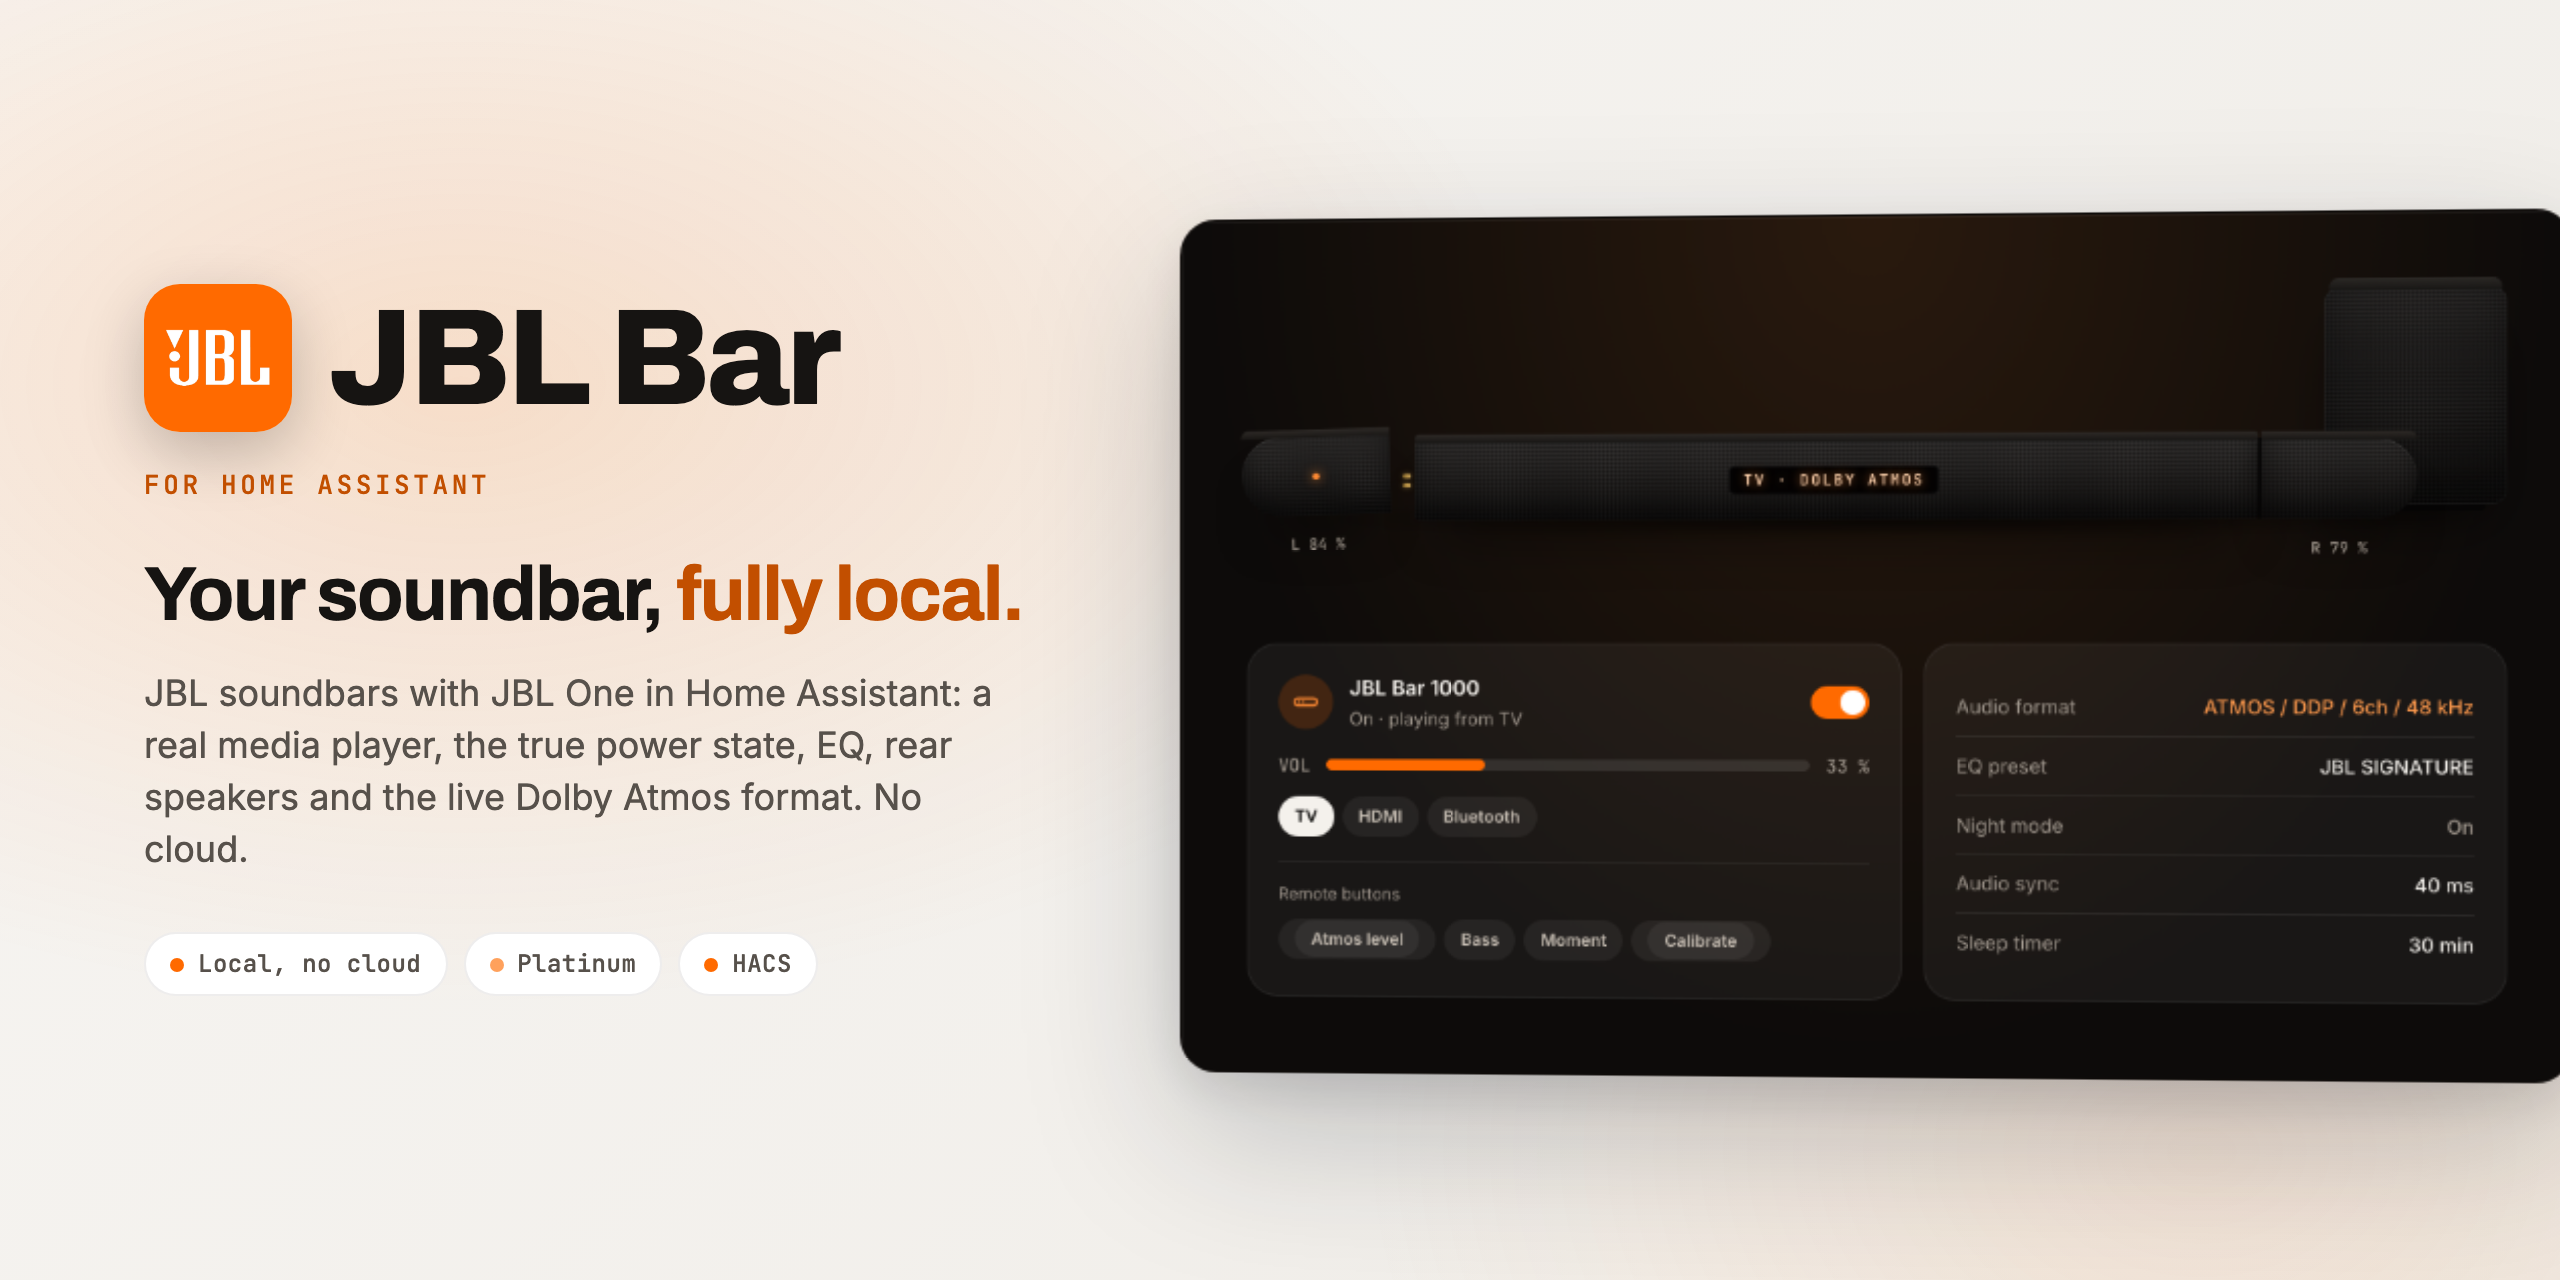
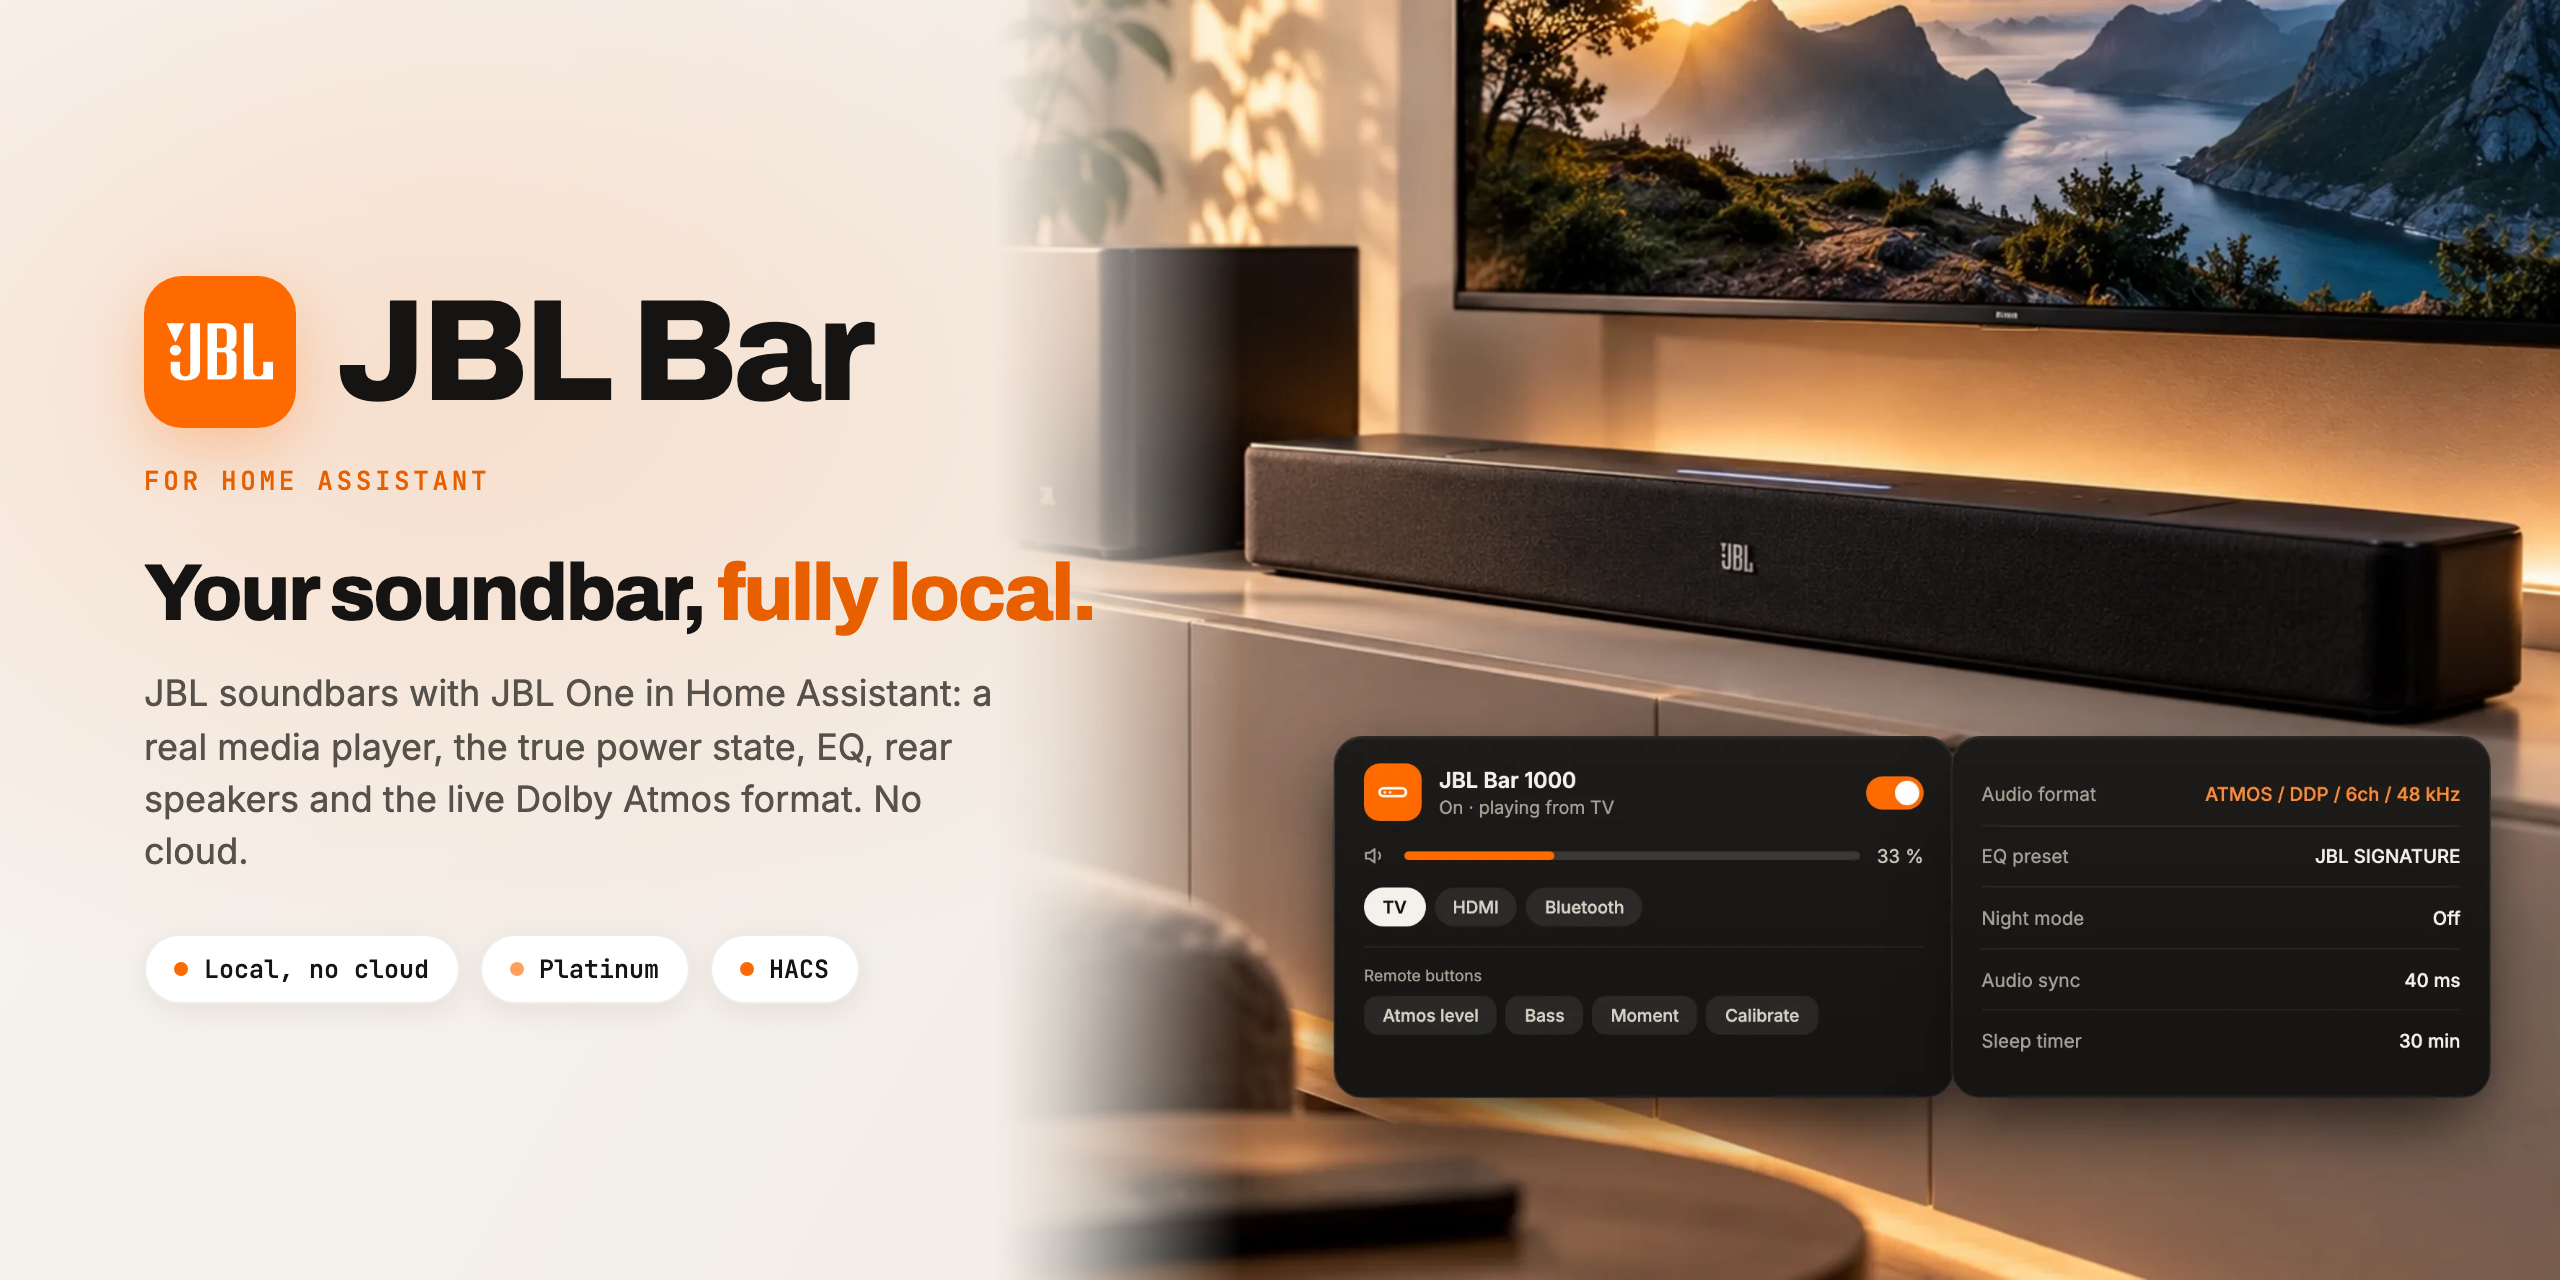
docs: photo scene in the README title and on the project page
- docs/images/hero-photo.webp: the AI-generated scene (bar, subwoofer, TV),
  metadata stripped, soft left edge, with English cards showing only real
  features drawn over the panels of the original picture
- README title light and dark rebuilt from tools/readme-title.html
  (borderless photo, same style as the shared title template)
- Project page: hero-scene.webp (scene without panels) above the HTML cards,
  updated alt texts, og:image is the title picture
- The drawn stage and readme-stage images are gone

Claude-Session: https://claude.ai/code/session_01ULsc5ZrKnvkcrEhHsqXvCz

diff --git a/docs/index.html b/docs/index.html
@@ -11,7 +11,7 @@
 <meta name="theme-color" content="#0B0A09" media="(prefers-color-scheme: dark)">
 <meta property="og:title" content="JBL Bar for Home Assistant">
 <meta property="og:description" content="Local control for JBL soundbars with JBL One. Fast, complete, no cloud.">
-<meta property="og:image" content="https://sh1ft-w.github.io/jbl-bar/logo.png">
+<meta property="og:image" content="https://sh1ft-w.github.io/jbl-bar/images/readme-title-light.png">
 <link rel="icon" href="logo.png">
 <link rel="preconnect" href="https://fonts.googleapis.com">
 <link rel="preconnect" href="https://fonts.gstatic.com" crossorigin>
@@ -103,33 +103,10 @@ section.tint { background: var(--bg-2); }
 .pill { display: inline-flex; align-items: center; gap: 6px; padding: 5px 12px; border-radius: 999px; background: var(--card); box-shadow: var(--shadow); font-weight: 600; color: var(--ink-2); font-size: 13px; }
 .pill i { width: 7px; height: 7px; border-radius: 50%; background: var(--orange); display: inline-block; }
 
-/* Bühne: stilisierte Soundbar mit Karte (bleibt in beiden Themes dunkel) */
-/* Zeichnung im Stil einer Bar 1000: flache Stoff-Soundbar, abnehmbare Rears an den Enden, Subwoofer dahinter. Nur Formen, kein Logo. */
-.rig { position: relative; padding: calc(clamp(64px, 12vw, 128px) / 0.82 - clamp(38px, 5.4vw, 58px) + 8px) 0 34px; }
-.rig::after { content: ""; position: absolute; left: 4%; right: 2%; bottom: 22px; height: 26px; border-radius: 50%; background: radial-gradient(closest-side, rgba(0,0,0,0.7), transparent); filter: blur(4px); z-index: 0; }
-.fabric { background-color: #161413;
-  background-image: repeating-linear-gradient(0deg, rgba(255,255,255,0.045) 0 1px, transparent 1px 3px), repeating-linear-gradient(90deg, rgba(255,255,255,0.035) 0 1px, transparent 1px 3px),
-    linear-gradient(180deg, rgba(255,255,255,0.06), rgba(0,0,0,0.35)); }
-.woofer { position: absolute; right: 0; bottom: 44px; filter: brightness(0.85); width: clamp(64px, 12vw, 128px); aspect-ratio: 0.82; border-radius: 10px; z-index: 1;
-  box-shadow: inset 0 0 0 1px rgba(255,255,255,0.05), inset 0 -18px 30px rgba(0,0,0,0.45), 0 20px 40px -18px rgba(0,0,0,0.9); }
-.woofer::before { content: ""; position: absolute; left: 3px; right: 3px; top: -7px; height: 9px; border-radius: 8px 8px 2px 2px; background: linear-gradient(180deg, #34302d, #1d1b19); }
-.woofer::after { content: ""; position: absolute; left: 12%; right: 12%; bottom: -5px; height: 5px; border-radius: 0 0 4px 4px; background: #070606; }
-.sb { position: relative; z-index: 2; display: flex; align-items: stretch; width: 93%; height: clamp(38px, 5.4vw, 58px); }
-.sb > * { position: relative; box-shadow: inset 0 1px 0 rgba(255,255,255,0.1), inset 0 -10px 18px rgba(0,0,0,0.45), 0 26px 40px -22px rgba(0,0,0,0.95); }
-.sb > *::before { content: ""; position: absolute; left: 0; right: 0; top: -5px; height: 6px; background: linear-gradient(180deg, #2f2b28, #1a1816); border-radius: inherit; border-bottom-left-radius: 0; border-bottom-right-radius: 0; }
-.sb .body { flex: 1; border-radius: 3px; min-width: 0; }
-.sb .end { width: 13%; flex: none; }
-.sb .end.l { border-radius: 999px 3px 3px 999px; margin-right: 14px; transform: translate(-4px, -4px) rotate(-1.5deg); }
-.sb .end.r { border-radius: 3px 999px 999px 3px; margin-left: 2px; }
-.sb .end.r::after { content: ""; position: absolute; left: -2px; top: 0; bottom: 0; width: 2px; background: #050404; }
-.sb .end b { position: absolute; top: calc(100% + 16px); left: 50%; transform: translateX(-50%); font: 500 11px/1 var(--mono); color: #a39a90; white-space: nowrap; }
-.sb .end i { position: absolute; top: 50%; left: 50%; width: 5px; height: 5px; margin: -2.5px 0 0 -2.5px; border-radius: 50%; background: #ff8a33; box-shadow: 0 0 8px rgba(255,138,51,0.9); }
-.sb .pins { position: absolute; left: -9px; top: 50%; transform: translateY(-50%); display: grid; gap: 4px; }
-.sb .pins span { width: 6px; height: 3px; border-radius: 2px; background: linear-gradient(90deg, #8a6a2c, #e0b660); box-shadow: 0 0 4px rgba(224,182,96,0.4); }
-.sb .display { position: absolute; left: 50%; top: 50%; transform: translate(-50%, -50%); padding: 3px 10px; border-radius: 4px; background: #040303; box-shadow: inset 0 0 0 1px rgba(255,255,255,0.06);
-  font: 500 clamp(8px, 1.1vw, 11px)/1.3 var(--mono); letter-spacing: 0.14em; color: #ffd2ad; text-shadow: 0 0 8px rgba(255,140,60,0.8); white-space: nowrap; }
-
-.stage { position: relative; margin: clamp(48px, 7vw, 84px) auto 0; max-width: 1000px; border-radius: var(--radius-lg); padding: clamp(28px, 5vw, 56px) clamp(16px, 4vw, 48px);
+/* Bühne: Szene (KI-Bild) mit Karten darunter (bleibt in beiden Themes dunkel) */
+.scene { display: block; width: calc(100% + 2 * clamp(16px, 4vw, 48px)); max-width: none; margin: 0 calc(-1 * clamp(16px, 4vw, 48px)); aspect-ratio: 1062 / 500; object-fit: cover; border-radius: var(--radius-lg) var(--radius-lg) 0 0;
+  -webkit-mask-image: linear-gradient(180deg, #000 72%, transparent); mask-image: linear-gradient(180deg, #000 72%, transparent); }
+.stage { position: relative; margin: clamp(48px, 7vw, 84px) auto 0; max-width: 1000px; border-radius: var(--radius-lg); padding: 0 clamp(16px, 4vw, 48px) clamp(28px, 5vw, 56px);
   background: radial-gradient(ellipse at 50% 0%, #2a1a0e, #0d0b0a 70%); box-shadow: var(--shadow-lg), inset 0 0 0 1px rgba(255,255,255,0.06); color: #f4f1ec; }
 /* Das Logo ist dunkel auf transparent: im Dunkelmodus hell zeichnen */
 @media (prefers-color-scheme: dark) { :root:not([data-theme="light"]) .brand img { filter: invert(1); } }
@@ -326,16 +303,9 @@ footer .fine { flex-basis: 100%; line-height: 1.6; }
       <span class="en">Home Assistant 2026.9 or newer &middot; English and German &middot; Apache 2.0</span><span class="de">Home Assistant 2026.9 oder neuer &middot; Deutsch und Englisch &middot; Apache 2.0</span>
     </p>
 
-    <div class="stage reveal d3" role="img" aria-label="Illustration: a stylised soundbar with detachable rear speakers at both ends and a subwoofer behind it, below it a media player card and a list of entity values. The values are made up.">
-      <div class="rig" aria-hidden="true">
-        <div class="woofer fabric"></div>
-        <div class="sb">
-          <div class="end l fabric"><i></i><b>L 84 %</b></div>
-          <div class="body fabric"><span class="pins"><span></span><span></span></span><span class="display">TV &middot; DOLBY ATMOS</span></div>
-          <div class="end r fabric"><b>R 79 %</b></div>
-        </div>
-      </div>
-      <div class="cards">
+    <div class="stage reveal d3" role="img" aria-label="Illustration: a soundbar with its subwoofer below a TV in warm evening light, below it a media player card and a list of entity values. AI-generated scene, made-up values.">
+      <img class="scene" src="images/hero-scene.webp" width="2124" height="1000" fetchpriority="high" alt="">
+      <div class="cards" style="margin-top: clamp(-28px, -2vw, -12px); position: relative;">
         <div class="hc">
           <div class="top">
             <span class="ico"><svg viewBox="0 0 24 24" fill="none" stroke="currentColor" stroke-width="2" stroke-linecap="round" stroke-linejoin="round"><rect x="2" y="9" width="20" height="6" rx="3"/><path d="M6 12h.01M10 12h.01"/></svg></span>
@@ -350,13 +320,13 @@ footer .fine { flex-basis: 100%; line-height: 1.6; }
           <div class="rows">
             <div><span><span class="en">Audio format</span><span class="de">Audioformat</span></span><b class="hot">ATMOS / DDP / 6ch / 48 kHz</b></div>
             <div><span><span class="en">EQ preset</span><span class="de">EQ-Preset</span></span><b>JBL SIGNATURE</b></div>
-            <div><span><span class="en">Night mode</span><span class="de">Nachtmodus</span></span><b><span class="en">On</span><span class="de">An</span></b></div>
+            <div><span><span class="en">Night mode</span><span class="de">Nachtmodus</span></span><b><span class="en">Off</span><span class="de">Aus</span></b></div>
             <div><span><span class="en">Audio sync</span><span class="de">Audio-Sync</span></span><b>40 ms</b></div>
             <div><span><span class="en">Sleep timer</span><span class="de">Sleep-Timer</span></span><b>30 min</b></div>
           </div>
         </div>
       </div>
-      <p class="fict"><span class="en">Illustration with made-up values, not a screenshot.</span><span class="de">Illustration mit erfundenen Werten, kein Screenshot.</span></p>
+      <p class="fict"><span class="en">Illustration: AI-generated scene and made-up values, not a screenshot.</span><span class="de">Illustration: KI-generierte Szene und erfundene Werte, kein Screenshot.</span></p>
     </div>
   </div>
 </section>

diff --git a/tools/readme-title.html b/tools/readme-title.html
@@ -1,0 +1,51 @@
+<!doctype html>
+<!--
+  README title image with the photo (docs/images/hero-photo.webp), in the style of
+  sh1ft-w.github.io/theme/v1/readme-images/title.html. render.mjs frames every shot in a window,
+  this one is borderless with a soft left edge, so it has its own template.
+  Render (2560 x 1280), from the repository root:
+    chrome-headless-shell --headless --hide-scrollbars --window-size=1280,640 --force-device-scale-factor=2 \
+      --screenshot=docs/images/readme-title-light.png "file://$PWD/tools/readme-title.html"
+    ... --screenshot=docs/images/readme-title-dark.png "file://$PWD/tools/readme-title.html?dark"
+-->
+<html lang="en">
+<head>
+<meta charset="utf-8">
+<title>README title image</title>
+<link href="https://fonts.googleapis.com/css2?family=Archivo:wght@700;800&family=Inter:wght@400;500;600&family=JetBrains+Mono:wght@500&display=swap" rel="stylesheet">
+<style>
+  :root { --bg: #F7F5F2; --bg-2: #EFE7DD; --ink: #161412; --ink-2: #57514B; --accent-text: #E85F00; --accent: #FF6A00; --accent-2: #FFA15C;
+    --glow-1: rgba(255,106,0,0.14); --pill-bg: #ffffff; --pill-line: rgba(40,30,20,0.08); --pill-shadow: 0 4px 14px rgba(60,40,20,0.08); }
+  :root.dark { --bg: #0B0A09; --bg-2: #17120E; --ink: #F4F1EC; --ink-2: rgba(222,214,204,0.84); --accent-text: #FF8A33;
+    --glow-1: rgba(255,106,0,0.2); --pill-bg: rgba(255,255,255,0.06); --pill-line: rgba(255,255,255,0.10); --pill-shadow: none; }
+  * { box-sizing: border-box; margin: 0; }
+  body { width: 1280px; height: 640px; overflow: hidden; position: relative; font-family: "Inter", system-ui, sans-serif; color: var(--ink);
+    background: radial-gradient(800px 520px at 16% 30%, var(--glow-1), transparent 62%), linear-gradient(120deg, var(--bg) 0%, var(--bg-2) 100%); }
+  .photo { position: absolute; right: 0; top: 0; height: 640px; width: auto; }
+  .left { position: absolute; left: 72px; top: 0; bottom: 0; width: 520px; display: flex; flex-direction: column; justify-content: center; }
+  .brand { display: flex; align-items: center; gap: 20px; }
+  .brand img { width: 76px; height: 76px; border-radius: 19px; box-shadow: 0 10px 30px rgba(255,106,0,0.28); }
+  .brand h1 { font-family: "Archivo", system-ui, sans-serif; font-weight: 800; font-size: 72px; letter-spacing: -0.035em; line-height: 1; }
+  .eyebrow { margin-top: 18px; font-family: "JetBrains Mono", monospace; font-weight: 500; font-size: 13px; letter-spacing: 0.14em; text-transform: uppercase; color: var(--accent-text); }
+  .lead { margin-top: 26px; font-family: "Archivo", system-ui, sans-serif; font-weight: 800; font-size: 40px; letter-spacing: -0.03em; line-height: 1.08; }
+  .lead em { font-style: normal; color: var(--accent-text); }
+  .sub { margin-top: 16px; font-size: 18px; line-height: 1.45; color: var(--ink-2); max-width: 430px; }
+  .pills { margin-top: 28px; display: flex; flex-wrap: wrap; gap: 10px; }
+  .pill { font-family: "JetBrains Mono", monospace; font-size: 12.5px; font-weight: 500; padding: 8px 14px; border-radius: 999px; background: var(--pill-bg);
+    border: 1px solid var(--pill-line); box-shadow: var(--pill-shadow); color: var(--ink); display: inline-flex; align-items: center; gap: 8px; }
+  .pill i { width: 7px; height: 7px; border-radius: 50%; background: var(--accent); }
+  .pill.v i { background: var(--accent-2); }
+</style>
+<script>if (/[?&]dark\b/.test(location.search)) document.documentElement.classList.add('dark');</script>
+</head>
+<body>
+  <img class="photo" src="../docs/images/hero-photo.webp" alt="">
+  <div class="left">
+    <div class="brand"><img src="../docs/images/readme-icon.png" alt=""><h1>JBL Bar</h1></div>
+    <div class="eyebrow">For Home Assistant</div>
+    <div class="lead">Your soundbar, <em>fully local.</em></div>
+    <div class="sub">JBL soundbars with JBL One in Home Assistant: a real media player, the true power state, EQ, rear speakers and the live Dolby Atmos format. No cloud.</div>
+    <div class="pills"><span class="pill"><i></i>Local, no cloud</span><span class="pill v"><i></i>Platinum</span><span class="pill"><i></i>HACS</span></div>
+  </div>
+</body>
+</html>

diff --git a/README.md b/README.md
@@ -2,7 +2,7 @@
 
 <picture>
   <source media="(prefers-color-scheme: dark)" srcset="docs/images/readme-title-dark.png" />
-  <img src="docs/images/readme-title-light.png" alt="JBL Bar: Your soundbar, fully local. An illustration of a soundbar with two rear speakers, a media player card playing from TV at 33 percent volume and the audio format ATMOS / DDP / 6ch / 48 kHz (made-up values)." />
+  <img src="docs/images/readme-title-light.png" alt="JBL Bar: Your soundbar, fully local. A soundbar with its subwoofer below a TV in warm evening light, with a media player card (on, playing from TV, volume 33 percent) and a card with the audio format ATMOS / DDP / 6ch / 48 kHz. AI-generated scene, made-up values." />
 </picture>
 
 <p>Local control for JBL soundbars with JBL One in Home Assistant.<br/>
